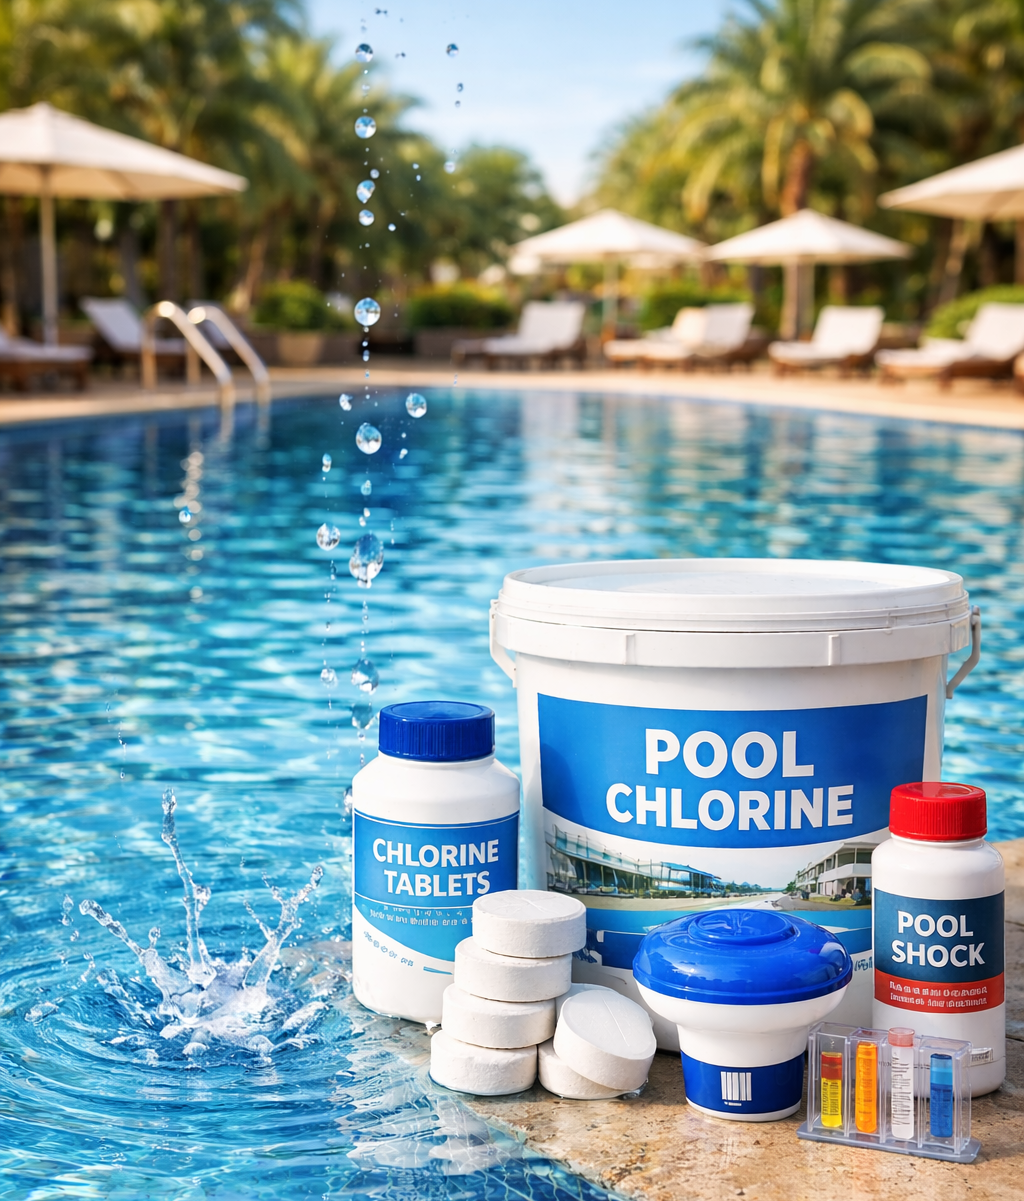
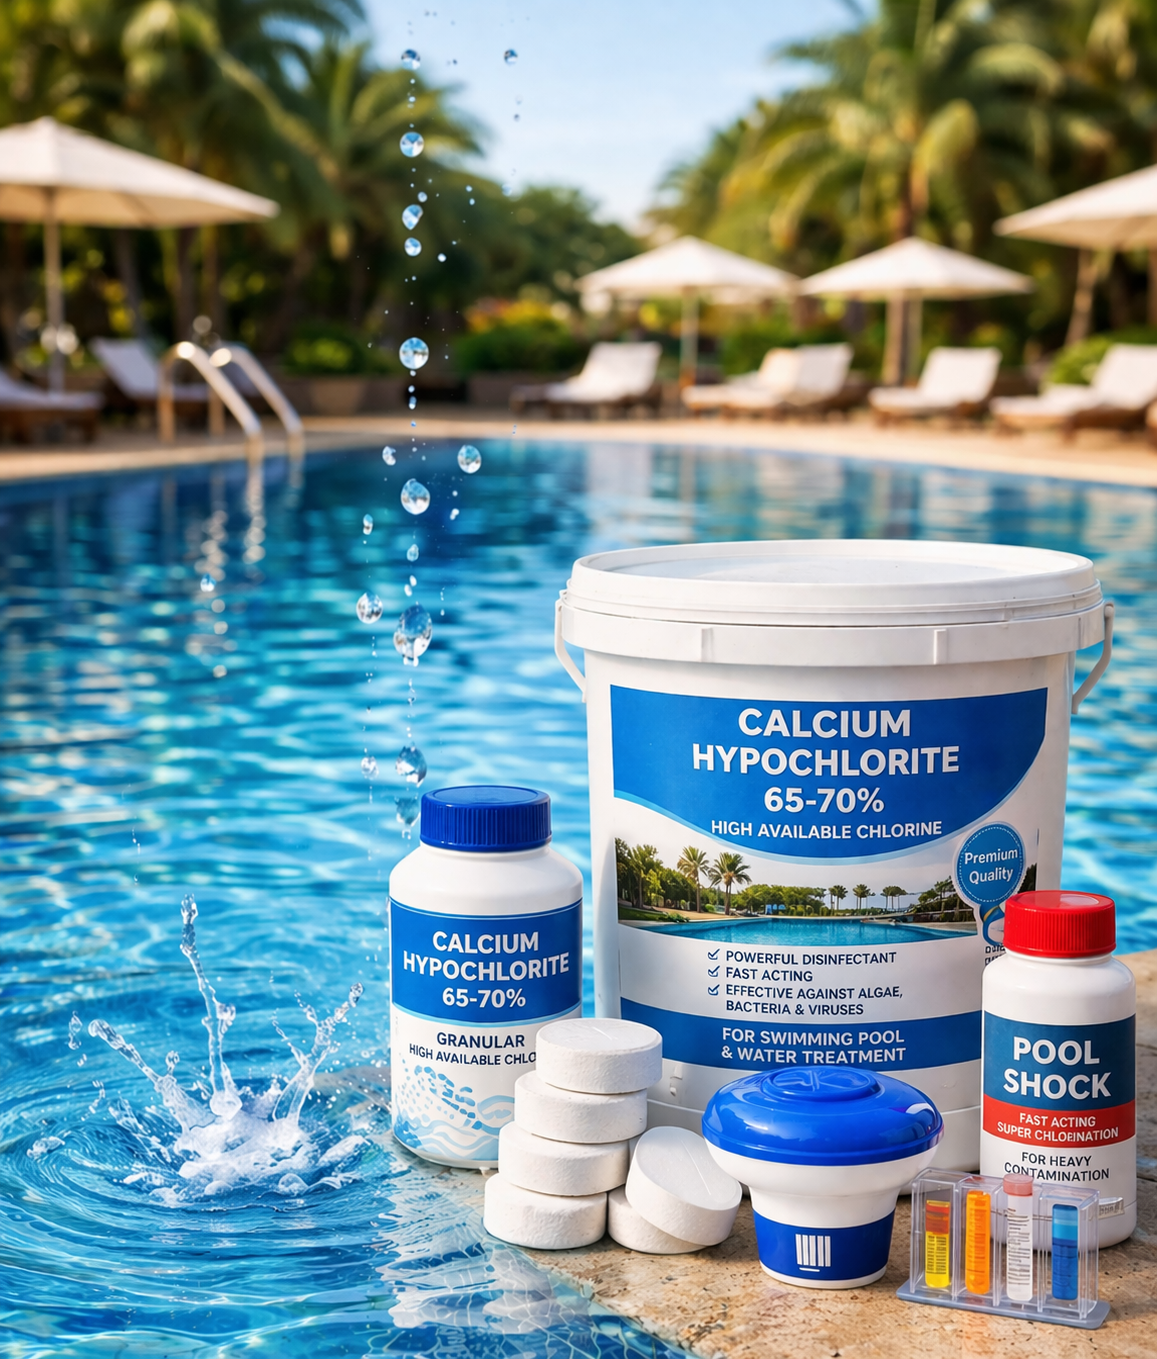
form pending

diff --git a/index.html b/index.html
@@ -72,13 +72,12 @@
             <div class="swiper hroSwiper">
                 <div class="swiper-wrapper">
                     <div class="swiper-slide">
-                        <img src="./assest/images/Banner/heroSlider1.png" alt="Hero Slider" class="heroSlider-img">
+                        <img src="./assest/images/Banner/heroSlider1.png" alt="Hero Slider" class="heroSlider-img desk-image">
+                        <img src="./assest/images/Banner/heroMblSlider1.png" alt="Hero Slider" class="heroSlider-img mobile-image">
                     </div>
                     <div class="swiper-slide">
-                        <img src="./assest/images/Banner/heroSlider1.png" alt="Hero Slider" class="heroSlider-img">
-                    </div>
-                    <div class="swiper-slide">
-                        <img src="./assest/images/Banner/heroSlider1.png" alt="Hero Slider" class="heroSlider-img">
+                        <img src="./assest/images/Banner/heroSlider2.png" alt="Hero Slider" class="heroSlider-img desk-image">
+                        <img src="./assest/images/Banner/heroMblSlider2.png" alt="Hero Slider" class="heroSlider-img mobile-image">
                     </div>
                 </div>
                 <div class="swiper-button-next ss-slider-btn heroSlider-next"></div>
@@ -187,12 +186,13 @@
                 </div>
                 <div class="sepecial-product">
                     <div class="sepecial-product-image">
-                        <img src="./assest/images/SwimmingPool/verticle.png" alt="swimming pool" class="w-100">
+                        <img src="./assest/images/SwimmingPool/verticle.png" alt="swimming pool" class="w-100 desk-image" >
+                        <img src="./assest/images/SwimmingPool/horizontal.png" alt="swimming pool" class="w-100 mobile-image">
                     </div>
                     <div class="sepecial-product-content">
-                        <h2 class="heading--1">Chlorine Chemicals</h2>
-                        <p class="para--1">Chlorine chemicals are one of the most effective and widely used solutions for swimming pool water disinfection. They work by eliminating harmful bacteria, viruses, algae, and other contaminants, ensuring the water remains clean, clear, and safe for swimmers. Regular use of quality chlorine helps maintain proper hygiene levels, prevents unpleasant odors, and controls the growth of algae that can make pool surfaces slippery and unsafe. Whether for residential pools, commercial pools, or water parks, chlorine plays a vital role in maintaining crystal-clear water.</p>
-                        <p>We offer high-quality chlorine chemicals specially formulated for swimming pool water treatment. Our product provides fast and long-lasting disinfection, easy application, and reliable performance in maintaining balanced pool water. Suitable for routine maintenance and shock treatment, our chlorine ensures consistent sanitation and enhanced water clarity. Choose our trusted chlorine solution for safe, hygienic, and well-maintained swimming pool water all year round.</p>
+                        <h2 class="heading--1">Calcium Hypochlorite 65-70%</h2>
+                        <p class="para--1">Calcium Hypochlorite is a powerful and highly effective chlorine-based disinfectant widely recognized as a best-selling solution for water sanitation. With a high available chlorine content of 65-70%, it delivers rapid action against bacteria, viruses, algae, and other harmful contaminants, making it an essential choice for maintaining crystal-clear and hygienic water. Its strong oxidizing properties help break down organic impurities, eliminate odors, and restore water clarity quickly, which is why it is extensively used in swimming pools, water treatment plants, and sanitation systems.</p>
+                        <p>Ideal for both routine maintenance and shock treatment, Calcium Hypochlorite ensures consistent and reliable performance even in demanding conditions. It is easy to handle, cost-effective, and highly stable when stored properly, making it a preferred option for commercial as well as residential applications. Whether used for pool disinfection, emergency water purification, or industrial cleaning, this versatile chemical stands out as a trusted and high-demand product for superior water treatment results.</p>
                         <a href="./enquiry.html" class="button--1 mt-25">Enquiry Now</a>
                     </div>
                 </div>
@@ -226,6 +226,10 @@
                 </div>
             </div>
         </section>
+
+        <a href="https://api.whatsapp.com/send?phone=19057818149&text=I%20want%20to%20buy%20product" title="Whats App" target="_blank" class="whats-app-icon">
+            <img src="./assest/images/Banner/whatsAppIcon.png" alt="Whats App" class="whats-app">
+        </a>
     </main>
 
     <footer>

diff --git a/contact.html b/contact.html
@@ -67,9 +67,7 @@
 
     <main>
         <section class="w-100">
-            <iframe
-                src="https://www.google.com/maps/embed?pb=!1m18!1m12!1m3!1d3718.822674791579!2d72.83104120948921!3d21.238879180449697!2m3!1f0!2f0!3f0!3m2!1i1024!2i768!4f13.1!3m3!1m2!1s0x3be04ec93459c853%3A0xa6fcb3524c73371d!2sAkshardham%20Society%2C%20315%2C%20Road%2C%20Aamba%20Talavadi%2C%20Akshar%20Dham%20Society%2C%20Katargam%2C%20Surat%2C%20Gujarat%20395004!5e0!3m2!1sen!2sin!4v1771744671574!5m2!1sen!2sin"
-                allowfullscreen="" loading="lazy" class="map" referrerpolicy="no-referrer-when-downgrade"></iframe>
+            <iframe src="https://www.google.com/maps/embed?pb=!1m18!1m12!1m3!1d92220.8235565649!2d-79.4419985!3d43.75415805!2m3!1f0!2f0!3f0!3m2!1i1024!2i768!4f13.1!3m3!1m2!1s0x882b322ec4918c75%3A0xfb330d877abf7e3d!2sNorth%20York%2C%20ON%2C%20Canada!5e0!3m2!1sen!2sin!4v1775643180415!5m2!1sen!2sin" allowfullscreen="" loading="lazy" class="map" referrerpolicy="no-referrer-when-downgrade"></iframe>
         </section>
         <section class="contact-us py-80">
             <div class="container">
@@ -162,6 +160,10 @@
                 </div>
             </div>
         </section>
+
+        <a href="https://api.whatsapp.com/send?phone=19057818149&text=I%20want%20to%20buy%20product" title="Whats App" target="_blank" class="whats-app-icon">
+            <img src="./assest/images/Banner/whatsAppIcon.png" alt="Whats App" class="whats-app">
+        </a>
     </main>
 
     <footer>

diff --git a/about-us.html b/about-us.html
@@ -74,7 +74,7 @@
                 <img src="./assest/images/about/about-banner.png" alt="About Baner" class="w-100">
                 <div class="about-content">
                     <p>Aquapure Chem is a trusted manufacturer, exporter, and supplier of high-quality industrial
-                        chemicals based in Ankleshwar, Gujarat. With over 20 years of industry experience, the company
+                        chemicals based in North York, ON, Canada, BIN: 1001463671. With over 20 years of industry experience, the company
                         specializes in delivering reliable chemical solutions to various industries including textiles,
                         pharmaceuticals, food processing, water treatment, and chemical manufacturing.</p>
                 </div>
@@ -129,6 +129,10 @@
                 </div>
             </div>
         </section>
+
+        <a href="https://api.whatsapp.com/send?phone=19057818149&text=I%20want%20to%20buy%20product" title="Whats App" target="_blank" class="whats-app-icon">
+            <img src="./assest/images/Banner/whatsAppIcon.png" alt="Whats App" class="whats-app">
+        </a>
     </main>
 
     <footer>

diff --git a/assest/css/style.css b/assest/css/style.css
@@ -13,6 +13,10 @@ body {
     margin: 0 auto;
 }
 
+main{
+    position: relative;
+}
+
 .w-100 {
     width: 100%;
 }
@@ -518,6 +522,10 @@ nav {
     align-items: center;
 }
 
+.sepecial-product-content p{
+    text-align: justify;
+}
+
 .category-name {
     position: absolute;
     bottom: 0;
@@ -753,6 +761,32 @@ footer {
 
 .mt-25{
     margin-top: 25px;
+}
+
+.desk-image{
+    display: block;
+}
+
+.mobile-image{
+    display: none;
+}
+
+.whats-app-icon{
+    width: 55px;
+    height: 55px;
+    position: fixed;
+    bottom: 20px;
+    right: 20px;
+    z-index: 99;
+    background-color: #e1ffea;
+    border-radius: 50%;
+    display: flex;
+    align-items: center;
+    justify-content: center;
+}
+
+.whats-app{
+    width: 70%;
 }
 
 @media screen and (max-width: 1200px) {
@@ -1041,5 +1075,13 @@ footer {
         border: none;
         display: flex;
         align-items: center;
+    }
+
+    .desk-image{
+        display: none;
+    }
+
+    .mobile-image{
+        display: block;
     }
 }

diff --git a/enquiry.html b/enquiry.html
@@ -224,6 +224,10 @@
             <iframe name="hidden_iframe" class="hidden_iframe" title="Form submission handler"
                 onload="formSubmitted()"></iframe>
         </section>
+
+        <a href="https://api.whatsapp.com/send?phone=19057818149&text=I%20want%20to%20buy%20product" title="Whats App" target="_blank" class="whats-app-icon">
+            <img src="./assest/images/Banner/whatsAppIcon.png" alt="Whats App" class="whats-app">
+        </a>
     </main>
 
     <footer>
@@ -257,7 +261,6 @@
 
     <script src="./assest/js/header.js"></script>
     <script src="./assest/js/enquiry.js"></script>
-    <script src="./assest/js/script.js"></script>
     <script>
         const packagingSelect = document.getElementById("PackagingType");
         const customBox = document.getElementById("CustomPackagingBox");

diff --git a/product-details.html b/product-details.html
@@ -71,6 +71,10 @@
                 <div id="productDetails"></div>
             </div>
         </section>
+
+        <a href="https://api.whatsapp.com/send?phone=19057818149&text=I%20want%20to%20buy%20product" title="Whats App" target="_blank" class="whats-app-icon">
+            <img src="./assest/images/Banner/whatsAppIcon.png" alt="Whats App" class="whats-app">
+        </a>
     </main>
 
     <footer>

diff --git a/product.html b/product.html
@@ -109,6 +109,9 @@
                 </div>
             </div>
         </section>
+        <a href="https://api.whatsapp.com/send?phone=19057818149&text=I%20want%20to%20buy%20product" title="Whats App" target="_blank" class="whats-app-icon">
+            <img src="./assest/images/Banner/whatsAppIcon.png" alt="Whats App" class="whats-app">
+        </a>
     </main>
 
     <footer>
